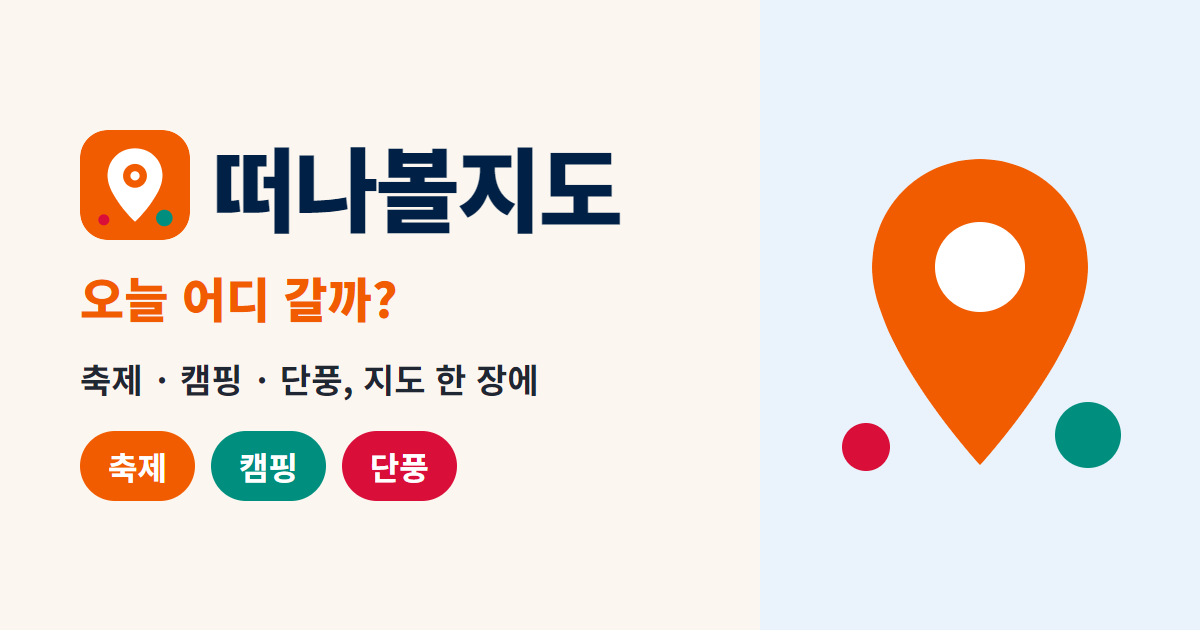
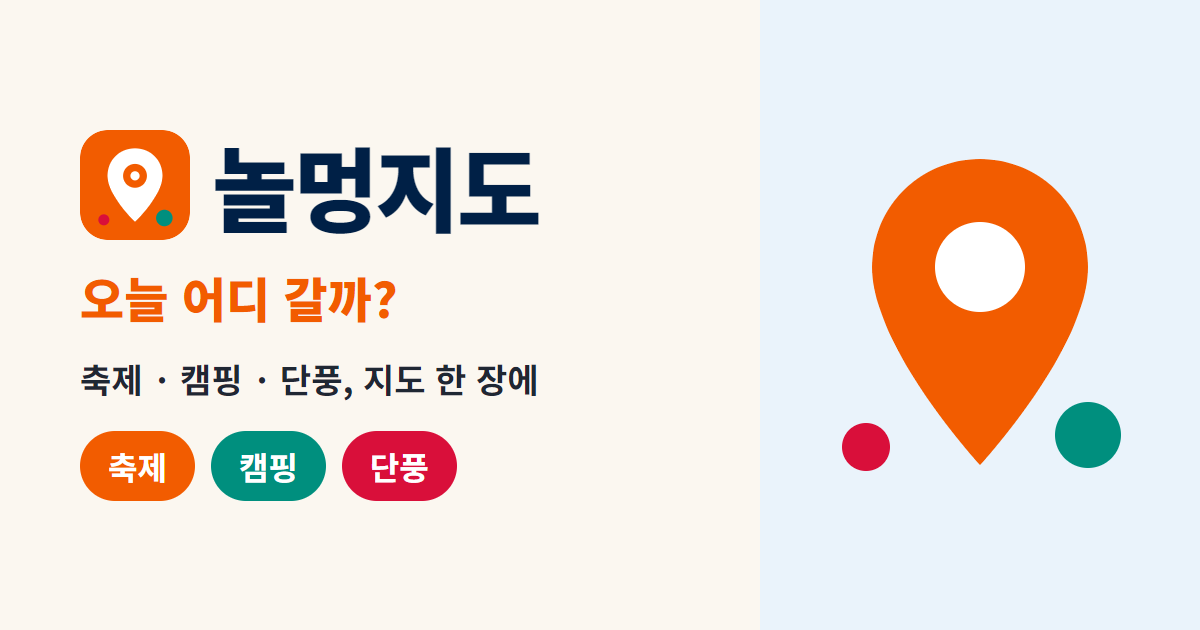
trip: 브랜드명 놀멍지도로 변경 (떠나볼지도→놀멍지도, KIPRIS 0건)

Changed region(s): [[0.1542, 0.2111, 0.5242, 0.3921]]

diff --git a/public/trip/index.html b/public/trip/index.html
@@ -1,9 +1,9 @@
 <!doctype html><html lang="ko"><head><meta charset="utf-8">
 <meta name="viewport" content="width=device-width,initial-scale=1">
-<title>10월 전국 축제·캠핑장·단풍 명소 지도와 일정 | 떠나볼지도</title>
+<title>10월 전국 축제·캠핑장·단풍 명소 지도와 일정 | 놀멍지도</title>
 <meta name="description" content="10월 전국 축제 일정, 캠핑장 예약 오픈일, 단풍 명소를 지도와 목록으로 한 곳에서 확인하세요. 공식 공지 기준, 확인일 표기.">
 <link rel="canonical" href="https://www.fundmoney8.com/trip">
-<meta property="og:type" content="website"><meta property="og:title" content="오늘 어디 갈까? 떠나볼지도 · 10월 축제·캠핑·단풍 지도"><meta property="og:description" content="10월 전국 축제 일정, 캠핑장 예약 오픈일, 단풍 명소를 지도와 목록으로 한 곳에서 확인하세요. 공식 공지 기준, 확인일 표기.">
+<meta property="og:type" content="website"><meta property="og:title" content="오늘 어디 갈까? 놀멍지도 · 10월 축제·캠핑·단풍 지도"><meta property="og:description" content="10월 전국 축제 일정, 캠핑장 예약 오픈일, 단풍 명소를 지도와 목록으로 한 곳에서 확인하세요. 공식 공지 기준, 확인일 표기.">
 <meta property="og:url" content="https://www.fundmoney8.com/trip"><meta property="og:image" content="https://www.fundmoney8.com/trip/og.png"><meta name="twitter:card" content="summary_large_image">
 <link rel="icon" type="image/svg+xml" href="/trip/logo.svg">
 <link rel="preconnect" href="https://fonts.googleapis.com"><link rel="preconnect" href="https://fonts.gstatic.com" crossorigin>
@@ -286,7 +286,7 @@ h1,h2,h3,.ab h1,.cb h3,.sec,.banner h2,.gh h2,.ah b,.alt h4{font-weight:900;colo
 @media(prefers-reduced-motion:no-preference){.btn,.chip{transition:background-color .12s ease-out}}
 </style></head>
 <body>
-<header class="appbar"><div class="ab"><svg width="26" height="26" viewBox="0 0 24 24" fill="none" stroke="currentColor" stroke-width="2" aria-hidden="true"><rect x="3" y="5" width="18" height="16" rx="2"/><path d="M3 10h18M8 3v4M16 3v4"/></svg><h1 id="h1"><svg class="lg" viewBox="0 0 120 120" width="40" height="40" aria-hidden="true"><rect width="120" height="120" rx="30" fill="#F25C00"/><path d="M60 20c-17 0-30 13-30 30 0 22 30 50 30 50s30-28 30-50c0-17-13-30-30-30z" fill="#fff"/><circle cx="60" cy="50" r="13" fill="#F25C00"/><circle cx="60" cy="50" r="5" fill="#fff"/><circle cx="92" cy="96" r="9" fill="#008F7E"/><circle cx="26" cy="98" r="6" fill="#D90F3A"/></svg><span class="bn">떠나볼지도</span><span class="tl">오늘 어디 갈까?</span><span class="vh">10월 어디 갈까? 축제·캠핑·단풍 한 곳에서</span></h1><button class="fz" id="fz" type="button" aria-pressed="true">글자 작게</button></div></header>
+<header class="appbar"><div class="ab"><svg width="26" height="26" viewBox="0 0 24 24" fill="none" stroke="currentColor" stroke-width="2" aria-hidden="true"><rect x="3" y="5" width="18" height="16" rx="2"/><path d="M3 10h18M8 3v4M16 3v4"/></svg><h1 id="h1"><svg class="lg" viewBox="0 0 120 120" width="40" height="40" aria-hidden="true"><rect width="120" height="120" rx="30" fill="#F25C00"/><path d="M60 20c-17 0-30 13-30 30 0 22 30 50 30 50s30-28 30-50c0-17-13-30-30-30z" fill="#fff"/><circle cx="60" cy="50" r="13" fill="#F25C00"/><circle cx="60" cy="50" r="5" fill="#fff"/><circle cx="92" cy="96" r="9" fill="#008F7E"/><circle cx="26" cy="98" r="6" fill="#D90F3A"/></svg><span class="bn">놀멍지도</span><span class="tl">오늘 어디 갈까?</span><span class="vh">10월 어디 갈까? 축제·캠핑·단풍 한 곳에서</span></h1><button class="fz" id="fz" type="button" aria-pressed="true">글자 작게</button></div></header>
 <nav class="tabs" id="tabs" aria-label="보기 선택">
 <button data-t="week" aria-current="true"><b>🏠</b>홈</button>
 <button data-t="fest" aria-current="false"><b>🧭</b>둘러보기</button>

diff --git a/public/trip/shell.js b/public/trip/shell.js
@@ -5,7 +5,7 @@
   var p=location.pathname,sec=p.indexOf('/camping')===0?'camp':p.indexOf('/festival')===0?'fest':'';
   var tabs=[['홈','/trip#week','h'],['둘러보기','/trip#'+(sec||'fest'),'e'],['지도','/trip#map','m']];
   var bar=document.createElement('div');bar.id='tripshell';
-  bar.innerHTML='<div class="ts-in"><a class="ts-brand" href="/trip#week">떠나볼지도</a><nav class="ts-nav" aria-label="앱 메뉴">'+
+  bar.innerHTML='<div class="ts-in"><a class="ts-brand" href="/trip#week">놀멍지도</a><nav class="ts-nav" aria-label="앱 메뉴">'+
     tabs.map(function(t){return '<a href="'+t[1]+'" class="ts-'+t[2]+'">'+t[0]+'</a>'}).join('')+'</nav></div>';
   document.body.insertBefore(bar,document.body.firstChild);
   document.documentElement.classList.add('trip-shell',sec?'ts-'+sec:'ts-x');
